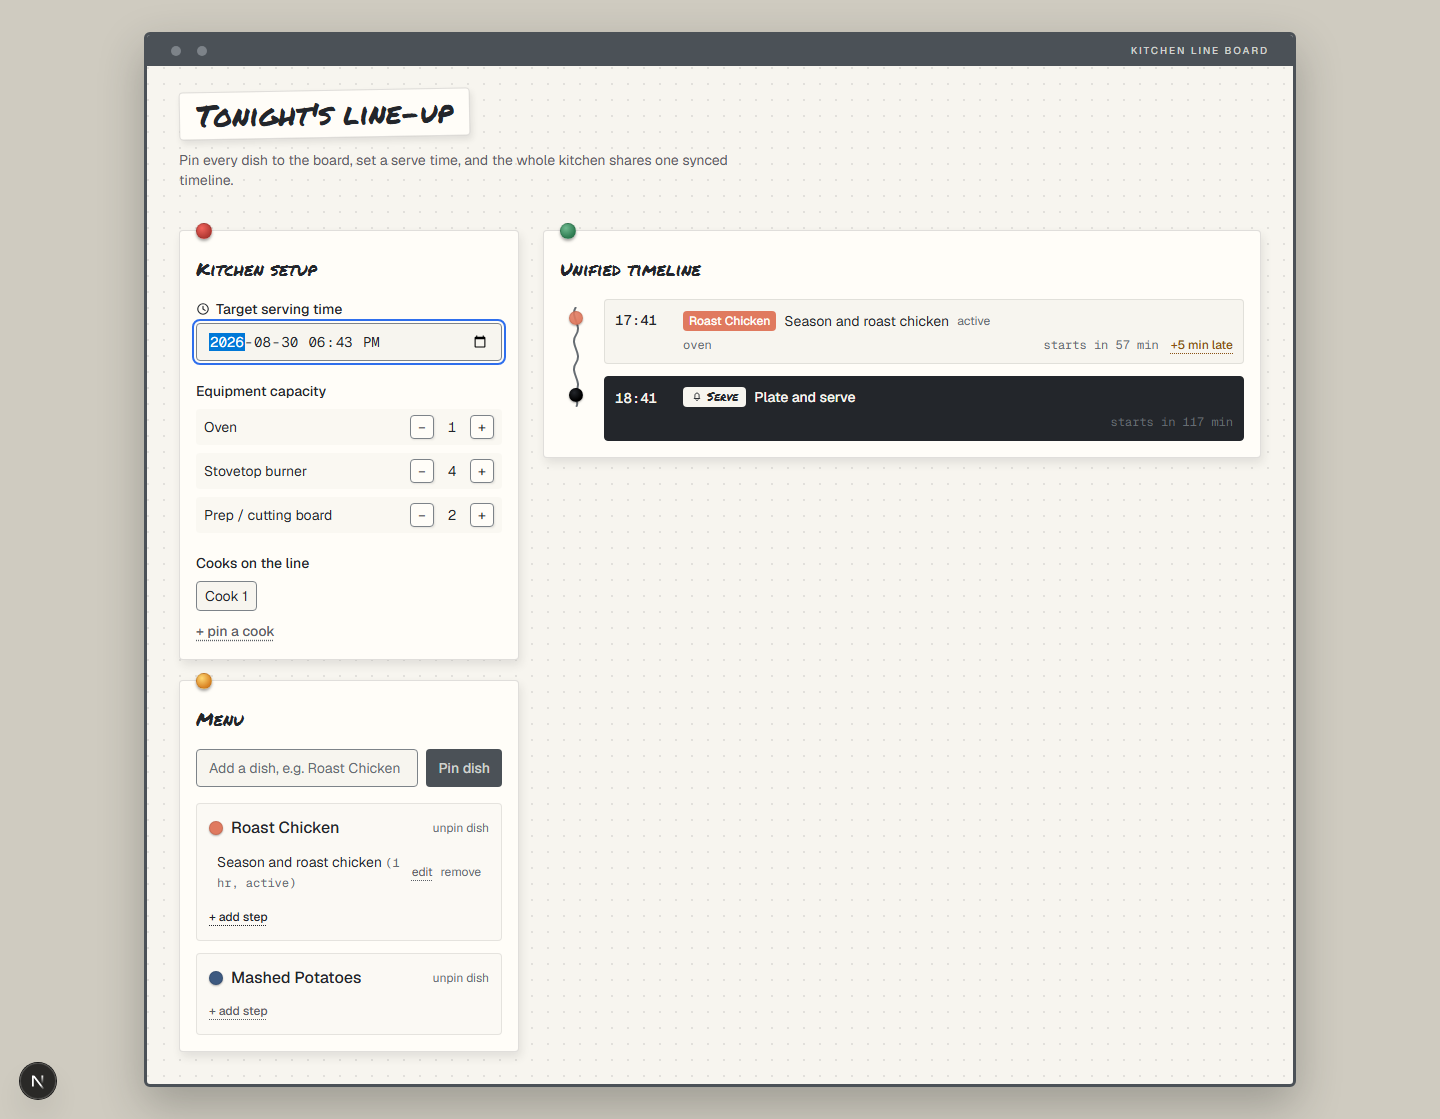
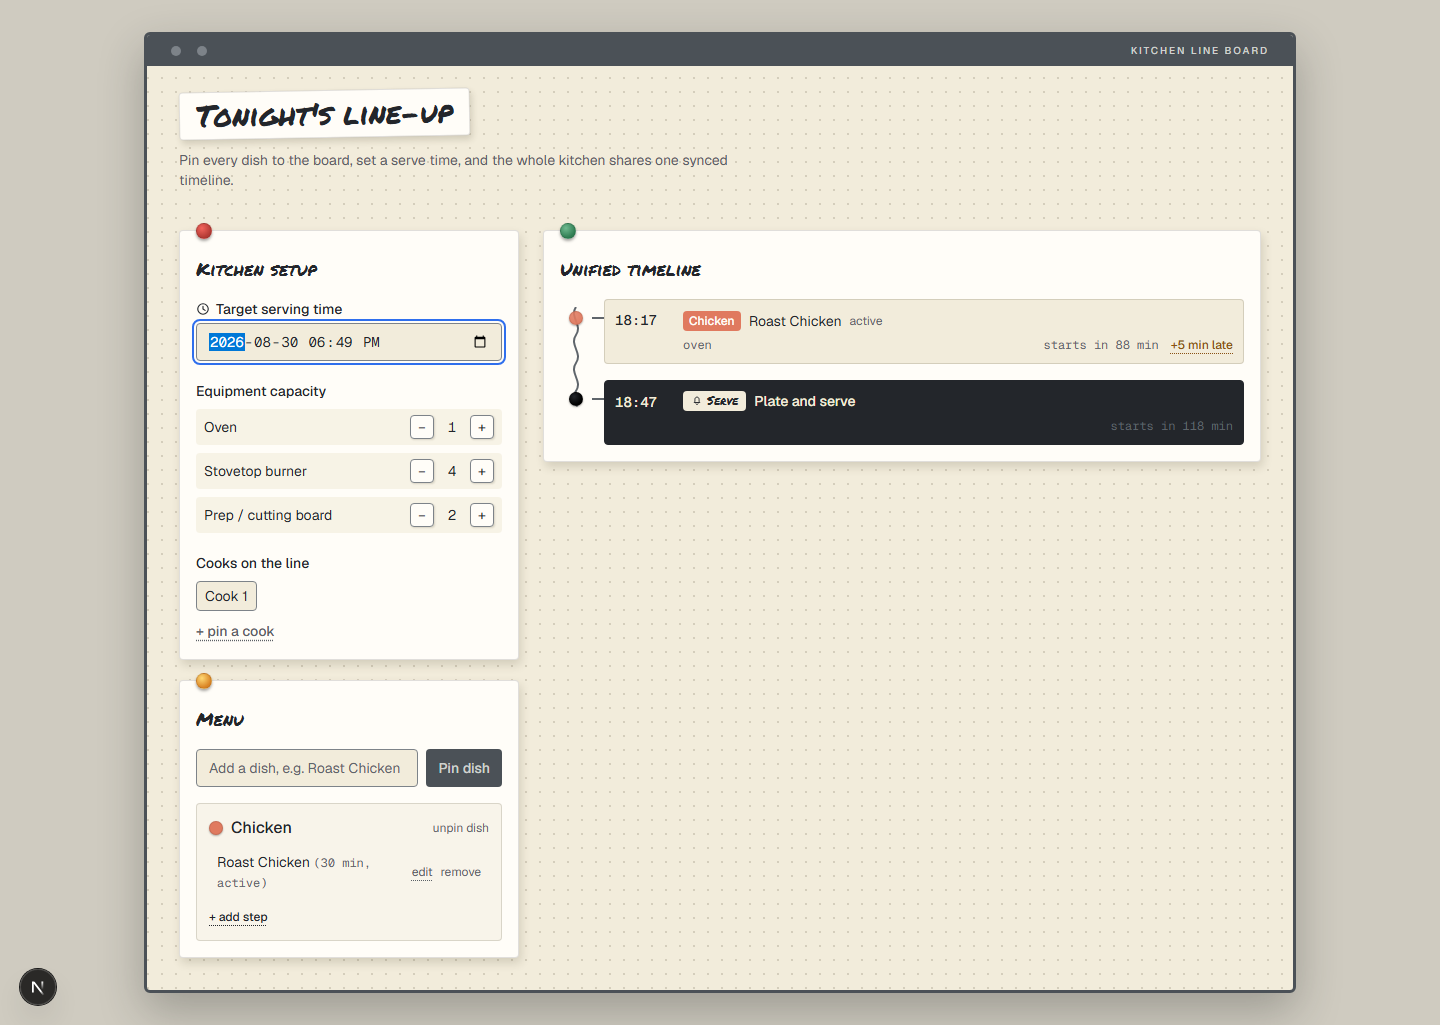
fix: address finish review — tether the chits to the spine, deepen the board
The finish review (fresh-eyes pass) found the timeline entries read as
plain bordered list rows sitting next to a decorative line rather than
actually hanging off it, and that the light-mode board was subtle
enough to risk reading as generic SaaS gray. Adds a short drawn tether
from each spine node to its entry card so the "pinned to a line"
metaphor is structural, and warms/deepens the board surface and its
dot texture. Also documents the built system in DESIGN.md and adds
dark-mode + conflict-state screenshots to the review evidence, both
of which the review flagged as unverified.

diff --git a/src/components/TimelineView.tsx b/src/components/TimelineView.tsx
@@ -92,7 +92,7 @@ export function TimelineView({ schedule, timeline }: TimelineViewProps) {
           const primaryRecipe = isServe ? null : recipeById.get(entry.recipeIds[0] ?? "");
 
           return (
-            <li key={entry.stepIds.join("+")} className="relative mb-3 flex items-start gap-3 last:mb-0">
+            <li key={entry.stepIds.join("+")} className="relative mb-4 flex items-start last:mb-0">
               <div className="flex w-8 shrink-0 justify-center pt-3">
                 <span
                   className="h-3.5 w-3.5 rounded-full border border-black/10"
@@ -105,6 +105,9 @@ export function TimelineView({ schedule, timeline }: TimelineViewProps) {
                   aria-hidden
                 />
               </div>
+
+              {/* tether: the chit visibly clips onto the spine rather than just sitting beside it */}
+              <span className="mt-[1.125rem] h-0.5 w-3 shrink-0 bg-[var(--ink-faint)]" aria-hidden />
 
               <div
                 className={`flex-1 rounded-sm border p-2.5 ${

diff --git a/src/app/globals.css b/src/app/globals.css
@@ -25,8 +25,8 @@
   --wall-shadow: rgba(30, 32, 30, 0.28);
 
   /* the board surface itself */
-  --board: #f7f5ef;
-  --board-edge: rgba(35, 38, 43, 0.1);
+  --board: #f2ecdb;
+  --board-edge: rgba(59, 47, 22, 0.16);
   --frame: #4b5157;
   --frame-dark: #383d42;
   --frame-light: #7d8389;
@@ -34,7 +34,7 @@
   /* ink + ui */
   --ink: #23262b;
   --ink-muted: #5b6066;
-  --ink-faint: #666c72;
+  --ink-faint: #5f656b;
   --paper: #fffdf8;
   --paper-edge: rgba(35, 38, 43, 0.14);
   /* light-on-dark label, for text set directly on --frame (steel rail, active tab) */

diff --git a/src/app/page.tsx b/src/app/page.tsx
@@ -21,8 +21,8 @@ export default function Home() {
         className="mx-auto max-w-6xl rounded-md border-[3px] border-[var(--frame)] bg-[var(--board)] shadow-[0_18px_45px_var(--wall-shadow)]"
         style={{
           backgroundImage:
-            "radial-gradient(circle at 1px 1px, var(--board-edge) 1px, transparent 0)",
-          backgroundSize: "16px 16px",
+            "radial-gradient(circle at 1px 1px, var(--board-edge) 1.4px, transparent 0)",
+          backgroundSize: "14px 14px",
         }}
       >
         {/* mounting rail */}

diff --git a/DESIGN.md b/DESIGN.md
@@ -1,0 +1,174 @@
+---
+name: Multi-Recipe Meal Coordinator
+description: A kitchen whiteboard, not a settings dashboard — dishes pinned along one hand-ruled timeline spine.
+colors:
+  wall: "#cfcbc0"
+  board: "#f2ecdb"
+  frame: "#4b5157"
+  frame-dark: "#383d42"
+  frame-light: "#7d8389"
+  frame-label: "#cfd2ce"
+  ink: "#23262b"
+  ink-muted: "#5b6066"
+  ink-faint: "#5f656b"
+  paper: "#fffdf8"
+  amber: "#d98324"
+  amber-text: "#8a5213"
+  amber-ink: "#5c3a0e"
+  amber-surface: "#f6e3c4"
+  red: "#b23a34"
+  red-ink: "#4a1712"
+  red-surface: "#f3d9d5"
+  green: "#2f7d52"
+  green-surface: "#dcefe1"
+typography:
+  display:
+    fontFamily: "var(--font-marker), var(--font-geist-sans), sans-serif"
+    fontWeight: 400
+    lineHeight: 1
+  body:
+    fontFamily: "var(--font-geist-sans), Arial, Helvetica, sans-serif"
+    fontWeight: 400
+    lineHeight: 1.5
+  label:
+    fontFamily: "var(--font-geist-mono)"
+    letterSpacing: "normal"
+rounded:
+  sm: "2px"
+  md: "6px"
+  full: "9999px"
+spacing:
+  sm: "8px"
+  md: "16px"
+components:
+  button-primary:
+    backgroundColor: "{colors.frame}"
+    textColor: "{colors.frame-label}"
+    rounded: "{rounded.sm}"
+    padding: "8px 12px"
+  button-primary-hover:
+    backgroundColor: "{colors.frame-dark}"
+  chit-index-card:
+    backgroundColor: "{colors.paper}"
+    textColor: "{colors.ink}"
+    rounded: "{rounded.sm}"
+    padding: "16px"
+---
+
+# Design System: Multi-Recipe Meal Coordinator
+
+## Overview
+
+**Creative North Star: "The Kitchen Line Board"**
+
+The product is a whiteboard mounted on the wall above a kitchen line: a steel-framed dry-erase board (a chalkboard after dark) that the cook pins dishes to, marks up in grease pencil, and reads at a glance while hands are busy. It exists to answer one question — will everything be ready at the same moment — so the page is built around a single hand-ruled timeline spine that every dish's steps visibly hang off, tethered by a short clipped line at each entry, converging on one SERVE pin.
+
+The rejected default for this category is the cozy cookbook-blog look (cream paper, serif display, food photography) on one side and the bare gray SaaS settings dashboard on the other — this system explicitly refuses both in favor of a physical, work-surface object: paper index cards, steel, pushpins, magnets, grease pencil.
+
+**Key Characteristics:**
+- A warm dry-erase board in daylight; a genuine chalkboard at night, not a generic dark theme.
+- Every card is a physical object pinned or clipped to the board — never a flat, borderless dashboard panel.
+- Conflicts and infeasibility are marked with a hazard-stripe pattern and an icon, never color alone.
+- Clock times, durations, and countdowns are always tabular mono; nothing else is.
+
+## Colors
+
+Two grounds (a warm cream board / a green-black chalkboard) plus a small set of physical-object accents; per-dish identity uses an existing, separately-curated eight-color "magnet" palette rather than a role color.
+
+### Primary
+- **Steel Frame** (`#4b5157`, `#383d42` pressed, `#2c3230` in dark mode): the board's mounting rail and every primary button/active-tag surface. Paired with **Frame Label** (`#cfd2ce`) for text — a fixed light neutral chosen because the frame stays dark-toned in both themes, so `--board` (which inverts per theme) cannot be reused as its text color.
+
+### Neutral
+- **Board** (`#f2ecdb` light / `#1d2320` dark): the writing surface itself — warm cream dry-erase by day, chalkboard by night. Carries a faint dot-grid texture (`--board-edge` at low opacity) rather than reading flat.
+- **Wall** (`#cfcbc0` light / `#101312` dark): the page background the board is mounted on.
+- **Paper** (`#fffdf8` light / `#262c28` dark): pinned index cards (Kitchen setup, Menu, Unified timeline) and popover-style panels — visually a shade lighter/cleaner than the board underneath it.
+- **Ink** (`#23262b` light / `#f1efe4` dark): primary text, and — inverted — the fill of the final SERVE entry, which is deliberately the one place the board's light/dark polarity flips to spotlight the finish line.
+
+### Signal (never color alone — always paired with an icon and/or a pattern)
+- **Amber** (`#d98324`): equipment-conflict hazard stripe and border. **Amber Text** (`#8a5213` light / `#eeab52` dark) is a separate, contrast-checked token for amber used as small text (e.g. "+5 min late") on the plain board — the saturated `--amber` itself fails 4.5:1 as text on the light board.
+- **Red** (`#b23a34`): infeasible-schedule banner, destructive actions.
+- **Green** (`#2f7d52`): the live "in progress" step timer, paired with a pulsing dot, never green text alone.
+
+### Named Rules
+**The Paired-Token Rule.** Any color meant to sit on a surface that inverts between light and dark (the board, the ink) must never itself be that inverting token when used as text/foreground on a non-inverting surface (the frame). Use a dedicated fixed-neutral token (`frame-label`) instead — this was a real contrast bug caught during build (buttons and active tags went invisible in dark mode) and the rule exists to prevent it recurring.
+
+## Typography
+
+**Display Font:** Permanent Marker (`var(--font-marker)`, fallback: Geist Sans, sans-serif)
+**Body Font:** Geist Sans (`var(--font-geist-sans)`, fallback: Arial, Helvetica, sans-serif)
+**Label/Mono Font:** Geist Mono (`var(--font-geist-mono)`) — reserved for measurement, never used decoratively
+
+**Character:** A grease-pencil marker voice for section titles and the handful of "written on the board" labels, set against a plain, highly legible sans for every instruction and control — the marker face is never used for body copy or data, only short single-line headers and tags.
+
+### Hierarchy
+- **Display** (400, `text-lg`–`text-2xl`/`text-3xl`, `leading-none`, `.font-marker`): section headers ("Kitchen setup", "Menu", "Unified timeline"), the page title card, and the "Serve" pill label. Never more than a few words.
+- **Body** (400–500, `text-sm`, 1.5 line-height): step descriptions, form labels, button text, all prose.
+- **Label/Mono** (500, `text-xs`–`text-sm`, tabular-nums): every clock time, duration, countdown, and equipment temperature. If it's a measurement, it's mono; nothing else is.
+
+### Named Rules
+**The Measurement-Is-Mono Rule.** Tabular mono is reserved for numbers a cook actually times against (clock times, minutes remaining, temperatures). It never appears as a "technical" costume on non-numeric labels.
+
+## Layout
+
+Two-column shell at `lg:` and above (`340px` setup/menu rail + flexible timeline column) inside a single steel-framed board capped at `max-w-6xl`, itself mounted on a `--wall` background with generous outer margin. Below `lg:`, the columns collapse to one, gated by a segmented "Timeline / Setup & menu" control that defaults to **Timeline** — the live view is the higher-priority context (a phone propped in the kitchen) and must never be buried under setup on first load. Card padding is `p-4` (16px); timeline entries use `p-2.5` (10px) with `mb-4` (16px) rhythm between entries.
+
+## Elevation & Depth
+
+Hybrid: the board itself lifts off the wall with a real soft shadow (`0 18px 45px`, tinted from `--wall-shadow`); pinned paper cards lift off the board the same way, offset + blurred (`2px 5px 10px`), never a flat zero-blur block shadow. Small physical accents (pushpins, magnet dots) carry a tight radial gradient plus a small hard-edged shadow, appropriate to their scale as tiny round objects rather than as panels.
+
+### Shadow Vocabulary
+- **Board-on-wall** (`box-shadow: 0 18px 45px var(--wall-shadow)`): the one large lift, used once per page on the outer board frame.
+- **Card-on-board** (`box-shadow: 2px 5px 10px var(--board-edge)`): every pinned index card (Kitchen setup, Menu, Unified timeline) and the step-edit form.
+- **Small object** (`box-shadow: 1px 1px 2px var(--board-edge)`): stepper buttons, small controls.
+
+### Named Rules
+**The No-Flat-Block Rule.** Every shadow in this system carries both an offset and a blur. A zero-blur `Npx Npx 0` block shadow belongs to a neobrutalist world this project never chose, and is a defect if it appears.
+
+## Shapes
+
+Small, near-square corners (`rounded-sm`, 2px) on every rectangular surface — cards, inputs, buttons, badges — reads as cut paper and cut steel rather than soft app-UI bubbles. The one larger radius (`rounded-md`, 6px) is reserved for the single outer board frame. Circles are used deliberately and only for physical round objects: pushpins, magnet dots on dishes, and timeline spine nodes — never as a decorative shape elsewhere.
+
+## Components
+
+### Buttons
+- **Shape:** `rounded-sm` (2px)
+- **Primary:** `background: var(--frame)`, `color: var(--frame-label)`, hover darkens to `var(--frame-dark)` — used for "Pin dish" and "Add step"
+- **Secondary/Text:** `color: var(--ink-muted)` with a dotted underline, hover to `var(--ink)` — used for "+ add step", "edit", "cancel"
+
+### Chips / Tags
+- **Cook filter tabs:** unselected = `var(--paper)` bg / `var(--frame-light)` border / `var(--ink-muted)` text; active = `var(--frame)` bg / `var(--frame-label)` text (never `var(--board)` — see the Paired-Token Rule).
+- **Dish badge:** background is the dish's own magnet color (from the existing 8-color `RECIPE_COLORS` set); text color is computed per-badge via `readableTextColor()` (a WCAG luminance check), never hardcoded white — several of the eight magnet colors are pale enough that white text fails contrast outright.
+
+### Cards / Index Cards
+- **Corner Style:** `rounded-sm`, with one small radial-gradient pushpin at the top-left corner (`Kitchen setup`, `Menu`, `Unified timeline`).
+- **Background:** `var(--paper)`
+- **Shadow Strategy:** Card-on-board (see Elevation).
+- **Internal Padding:** `p-4`, `pt-6` to clear the pushpin.
+
+### Timeline Entry ("chit")
+The signature component. A magnet-colored dot sits in a fixed-width column on the spine; a short 2px horizontal tether connects the dot to the entry card, so each entry visibly clips onto the spine rather than merely sitting beside it. The entry itself is a plain-bordered `var(--board)` card holding: a mono clock time, a dish-colored badge, the description, an equipment/kind line, and a right-aligned timer + delay control. The final "Serve" entry inverts to `var(--ink)` background / `var(--board)` text, the only place polarity flips, to mark it as the milestone the whole spine converges on.
+
+### Conflict / Infeasibility Banners
+- **Conflict:** a solid `var(--amber)`/`var(--amber-ink)` diagonal hazard-stripe strip on top of an `var(--amber-surface)` body, with a warning-triangle icon — the stripe pattern carries the meaning, not the amber hue alone.
+- **Infeasible:** a `var(--red)`-bordered `var(--red-surface)` badge with the same warning icon, placed directly in the timeline header where it cannot be missed.
+
+### Inputs / Fields
+- **Style:** `var(--board)` background, `var(--frame-light)` border, `rounded-sm`
+- **Focus:** browser-default focus ring recolored to `var(--focus-ring)` via `:focus-visible`
+
+### Step Timer (signature micro-component)
+Three states, keyed by React `key` on status so the DOM element remounts and its entrance animation replays on every state transition: upcoming (muted mono "starts in N min"), active (a `var(--green)`/`var(--green-surface)` pill with a continuously pulsing dot and a one-time "stamp" pop-in), done (muted, struck through).
+
+## Do's and Don'ts
+
+### Do:
+- **Do** keep every shadow offset-plus-blur; the board is a physical-object world, not a neobrutalist one.
+- **Do** compute dish-badge text color from the badge's own background (`readableTextColor()`); never assume white or black text works for an arbitrary per-dish color.
+- **Do** default the mobile view to the Timeline tab, never Setup — kitchen-during-cooking is the highest-priority context per PRODUCT.md.
+- **Do** mark every conflict/infeasibility state with an icon and/or pattern in addition to color.
+
+### Don't:
+- **Don't** use `var(--board)` as a text/foreground color on `var(--frame)` — `--board` inverts per theme, `--frame` does not, and the pairing goes invisible in dark mode. Use `var(--frame-label)`.
+- **Don't** add a colored `border-left`/`border-right` to cards, list items, or alerts to encode category — dish identity is carried by the magnet dot, not a side stripe.
+- **Don't** use an emoji or unicode glyph as an icon. Every icon in this system is an authored inline SVG at one consistent stroke weight.
+- **Don't** use the marker display face for body copy, descriptions, or anything longer than a short label — it is a header/tag voice only.
